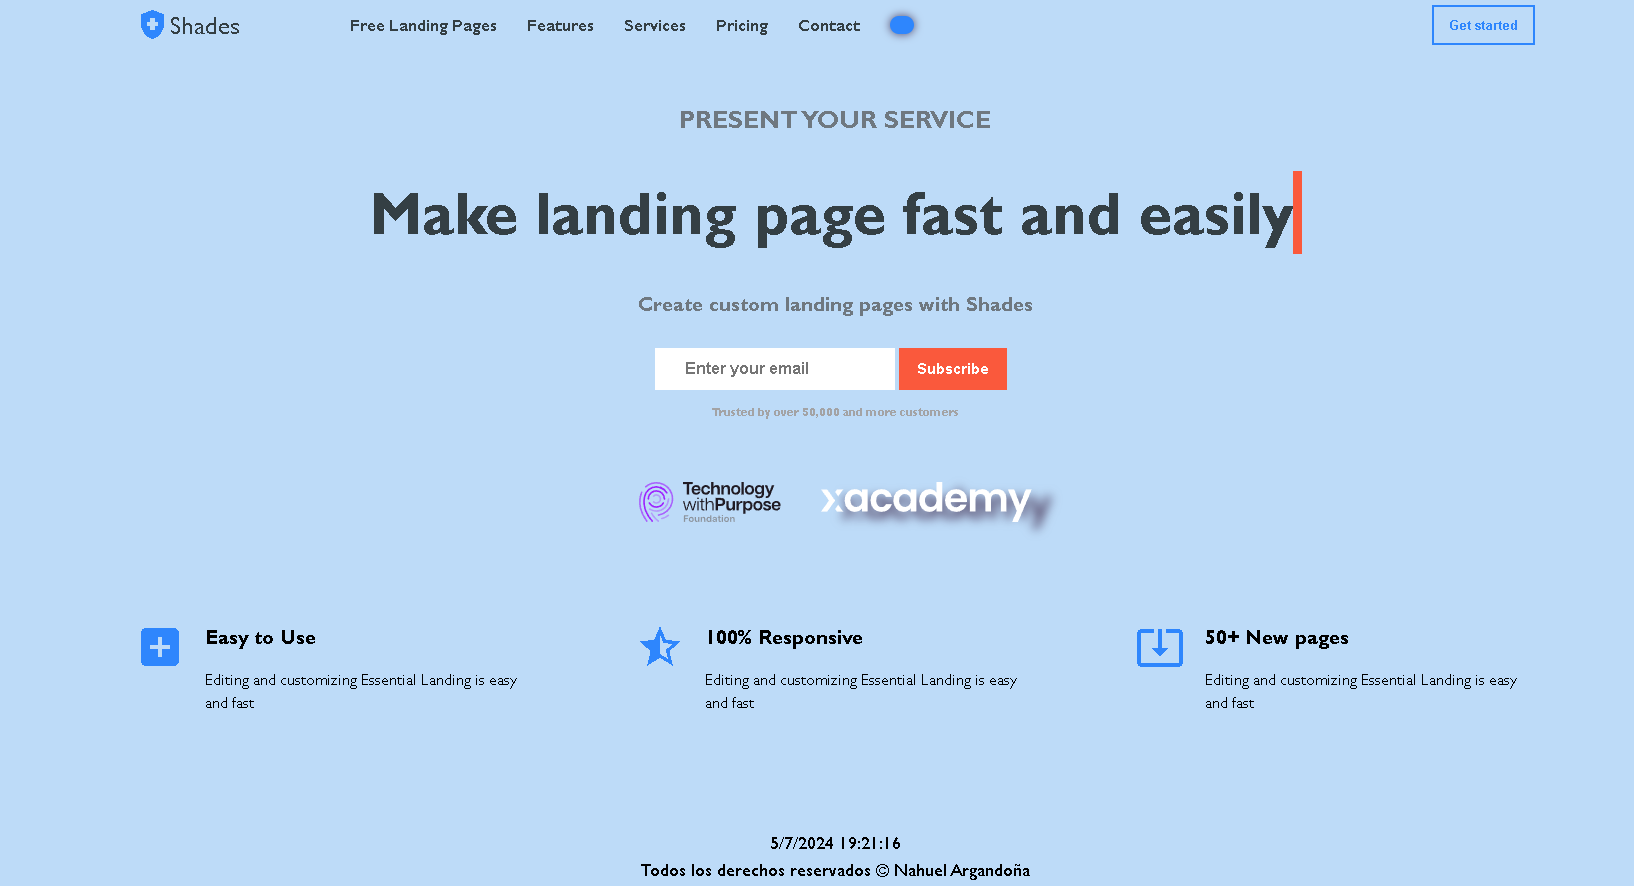
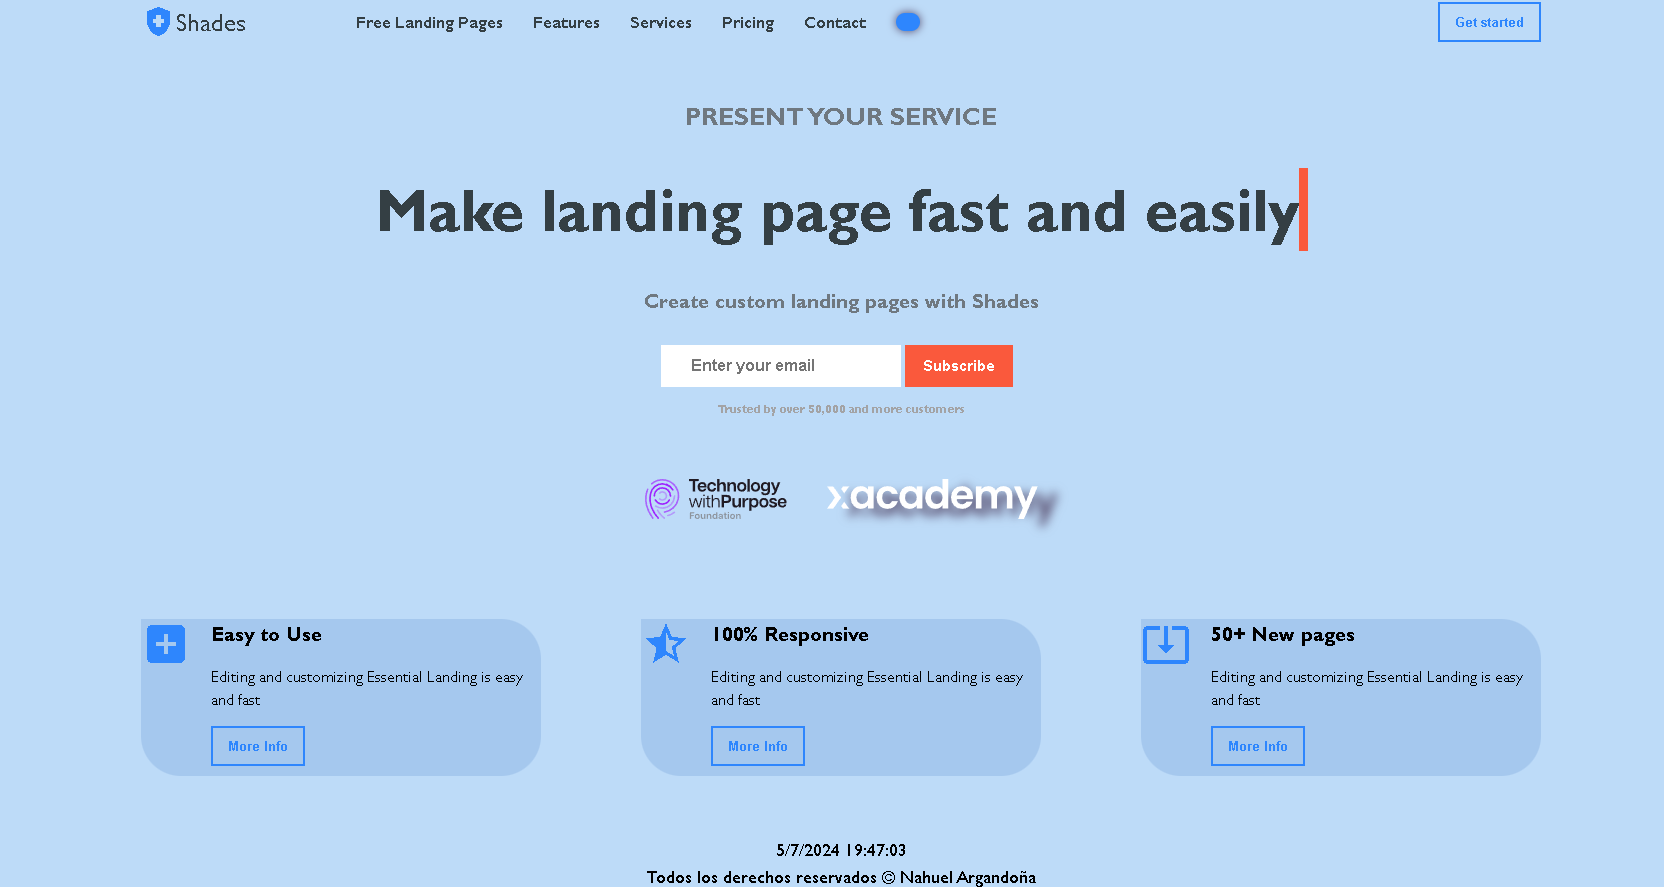
new form cards features and new img

diff --git a/index.html b/index.html
@@ -52,7 +52,7 @@
                 </label>
             </ul>
         </nav>
-        
+
         <main>
             <section class="presentation">
                 <span class="pre-title">Present your service</span>
@@ -67,9 +67,12 @@
                 <p class="secondary-p">Trusted by over 50,000 and more customers</p>
             </section>
             <section class="img-tec">
-                <img class="img-tec-1" src="https://technologywithpurpose.org/wp-content/uploads/2022/10/technology-with-purpose.svg"
+                <img class="img-tec-1"
+                    src="https://technologywithpurpose.org/wp-content/uploads/2022/10/technology-with-purpose.svg"
                     alt="technology-withPurpose">
-                <img class="img-tec-2" src="https://technologywithpurpose.org/wp-content/uploads/2023/02/xacademy-white.svg" alt="xAcademy">
+                <img class="img-tec-2"
+                    src="https://technologywithpurpose.org/wp-content/uploads/2023/02/xacademy-white.svg"
+                    alt="xAcademy">
             </section>
             <section class="features">
                 <div class="feature">
@@ -77,6 +80,7 @@
                     <div>
                         <h4>Easy to Use</h4>
                         <p>Editing and customizing Essential Landing is easy and fast</p>
+                        <button type="button" class="feature-button">More Info</button>
                     </div>
                 </div>
                 <div class="feature">
@@ -84,6 +88,8 @@
                     <div>
                         <h4>100% Responsive</h4>
                         <p>Editing and customizing Essential Landing is easy and fast</p>
+                        <button type="button" class="feature-button">More Info</button>
+
                     </div>
                 </div>
                 <div class="feature">
@@ -91,6 +97,8 @@
                     <div>
                         <h4>50+ New pages</h4>
                         <p>Editing and customizing Essential Landing is easy and fast</p>
+                        <button type="button" class="feature-button">More Info</button>
+
                     </div>
                 </div>
             </section>

diff --git a/styles.css b/styles.css
@@ -74,7 +74,7 @@ body.noche .menu ul li {
   border: 2px solid #2e86fd;
   color: #2e86fd;
   font-weight: bold;
-  
+  cursor: pointer;
 }
 
 body.noche .outline-button {
@@ -171,7 +171,7 @@ body.noche .post-title {
   color: white;
   font-size: 15px;
   font-weight: 700;
- 
+  cursor: pointer;
 }
 
 body.noche .subscribe-form button {
@@ -192,6 +192,7 @@ body.noche .secondary-p {
   display: flex;
   margin-top: 100px;
   justify-content: space-between;
+  
 }
 
 .feature {
@@ -199,6 +200,29 @@ body.noche .secondary-p {
   align-items: start;
   gap: 20px;
   width: 400px;
+  border-radius: 0px 40px 40px 40px;
+  background-color: #a5c8ee;
+  
+}
+
+body.noche .feature{
+  background-color: #333333;
+}
+.feature-button {
+  padding: 10px 15px;
+  background-color: transparent;
+  border: 2px solid #2e86fd;
+  color: #2e86fd;
+  font-weight: bold;
+  margin-bottom: 10px;
+  cursor: pointer;
+}
+
+
+body.noche .feature-button {
+  border-color: #fa593c;
+  color: #fa593c;
+  
 }
 
 .feature h4 {
@@ -279,7 +303,7 @@ footer {
   color: black;
   text-align: center;
   padding: 0;
-  margin-top: 100px;
+  margin-top: 60px;
 }
 
 body.noche footer {
@@ -331,7 +355,7 @@ slider::before {
 }
 
 input:checked + .slider {
-  background-color: #4E4061;
+  background-color: #fa593c;
 }
 
 input:focus + .slider {
@@ -387,6 +411,7 @@ input:checked + .slider::before {
   .feature {
     width: 100%;
     margin-bottom: 20px;
+    
   }
 }
 
@@ -408,6 +433,7 @@ input:checked + .slider::before {
     flex-direction: row;
     align-items: center;
     margin-top: 125px;
+    gap: 20px;
   }
   .feature {
     width: 100%;
